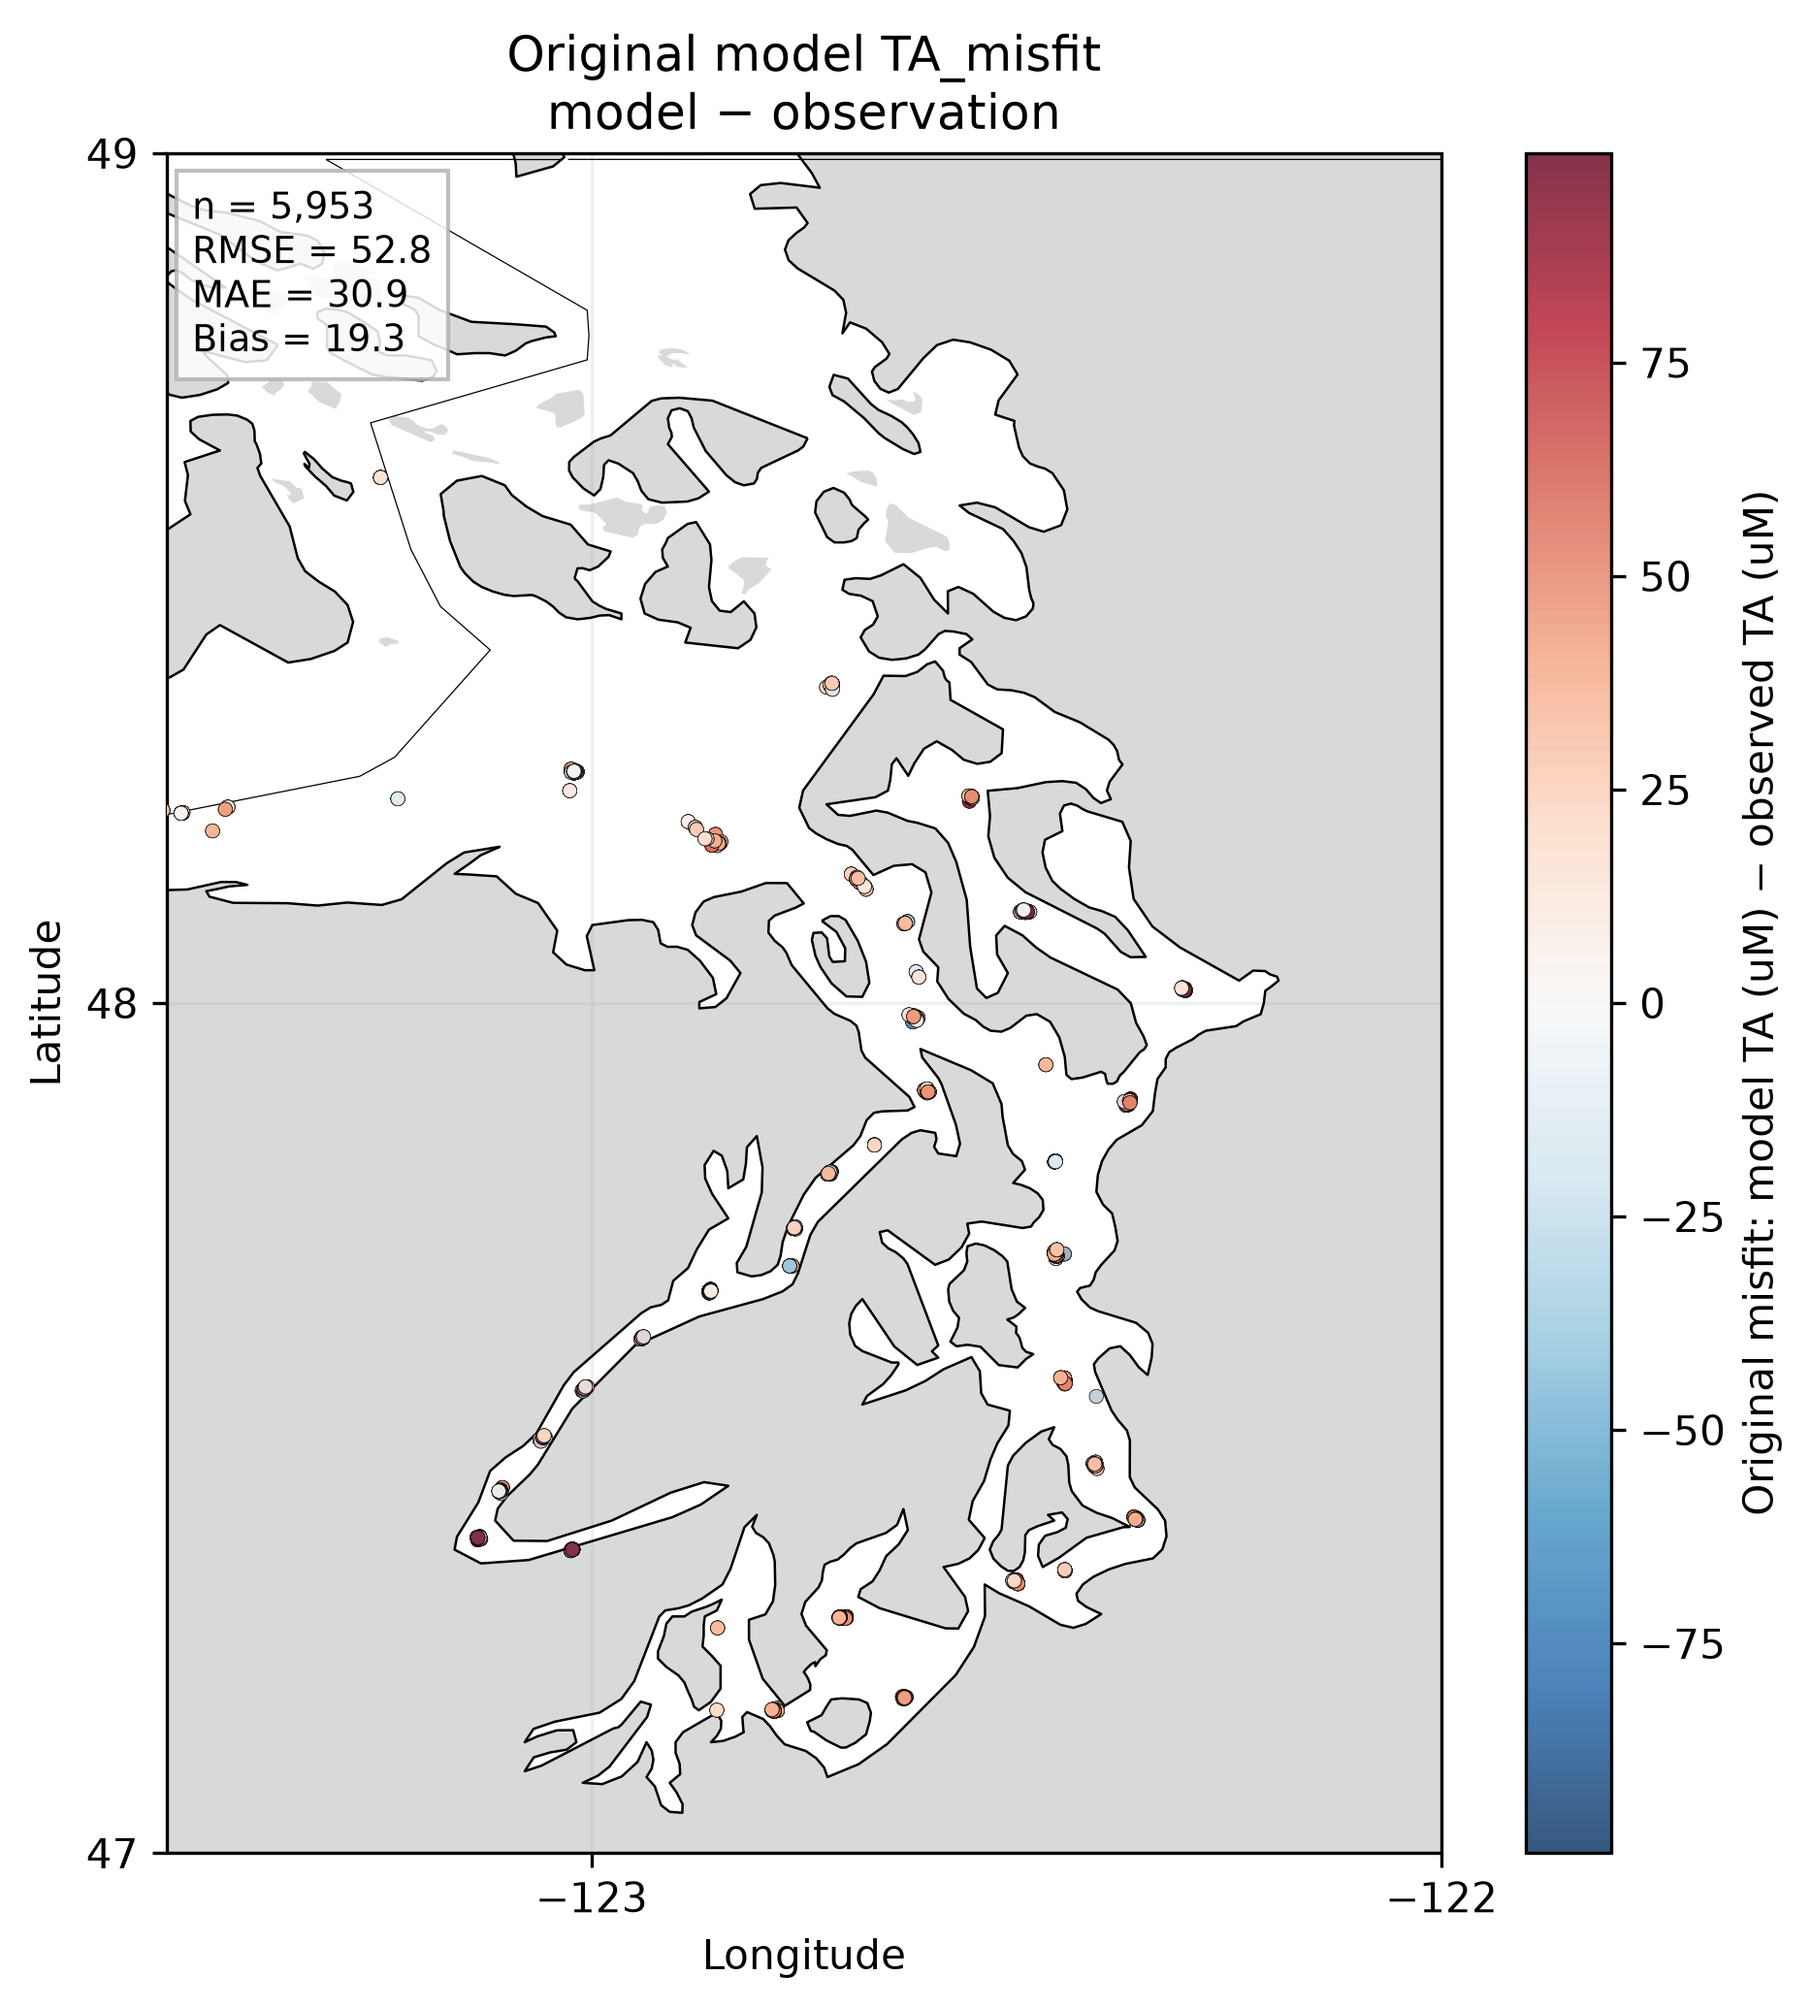
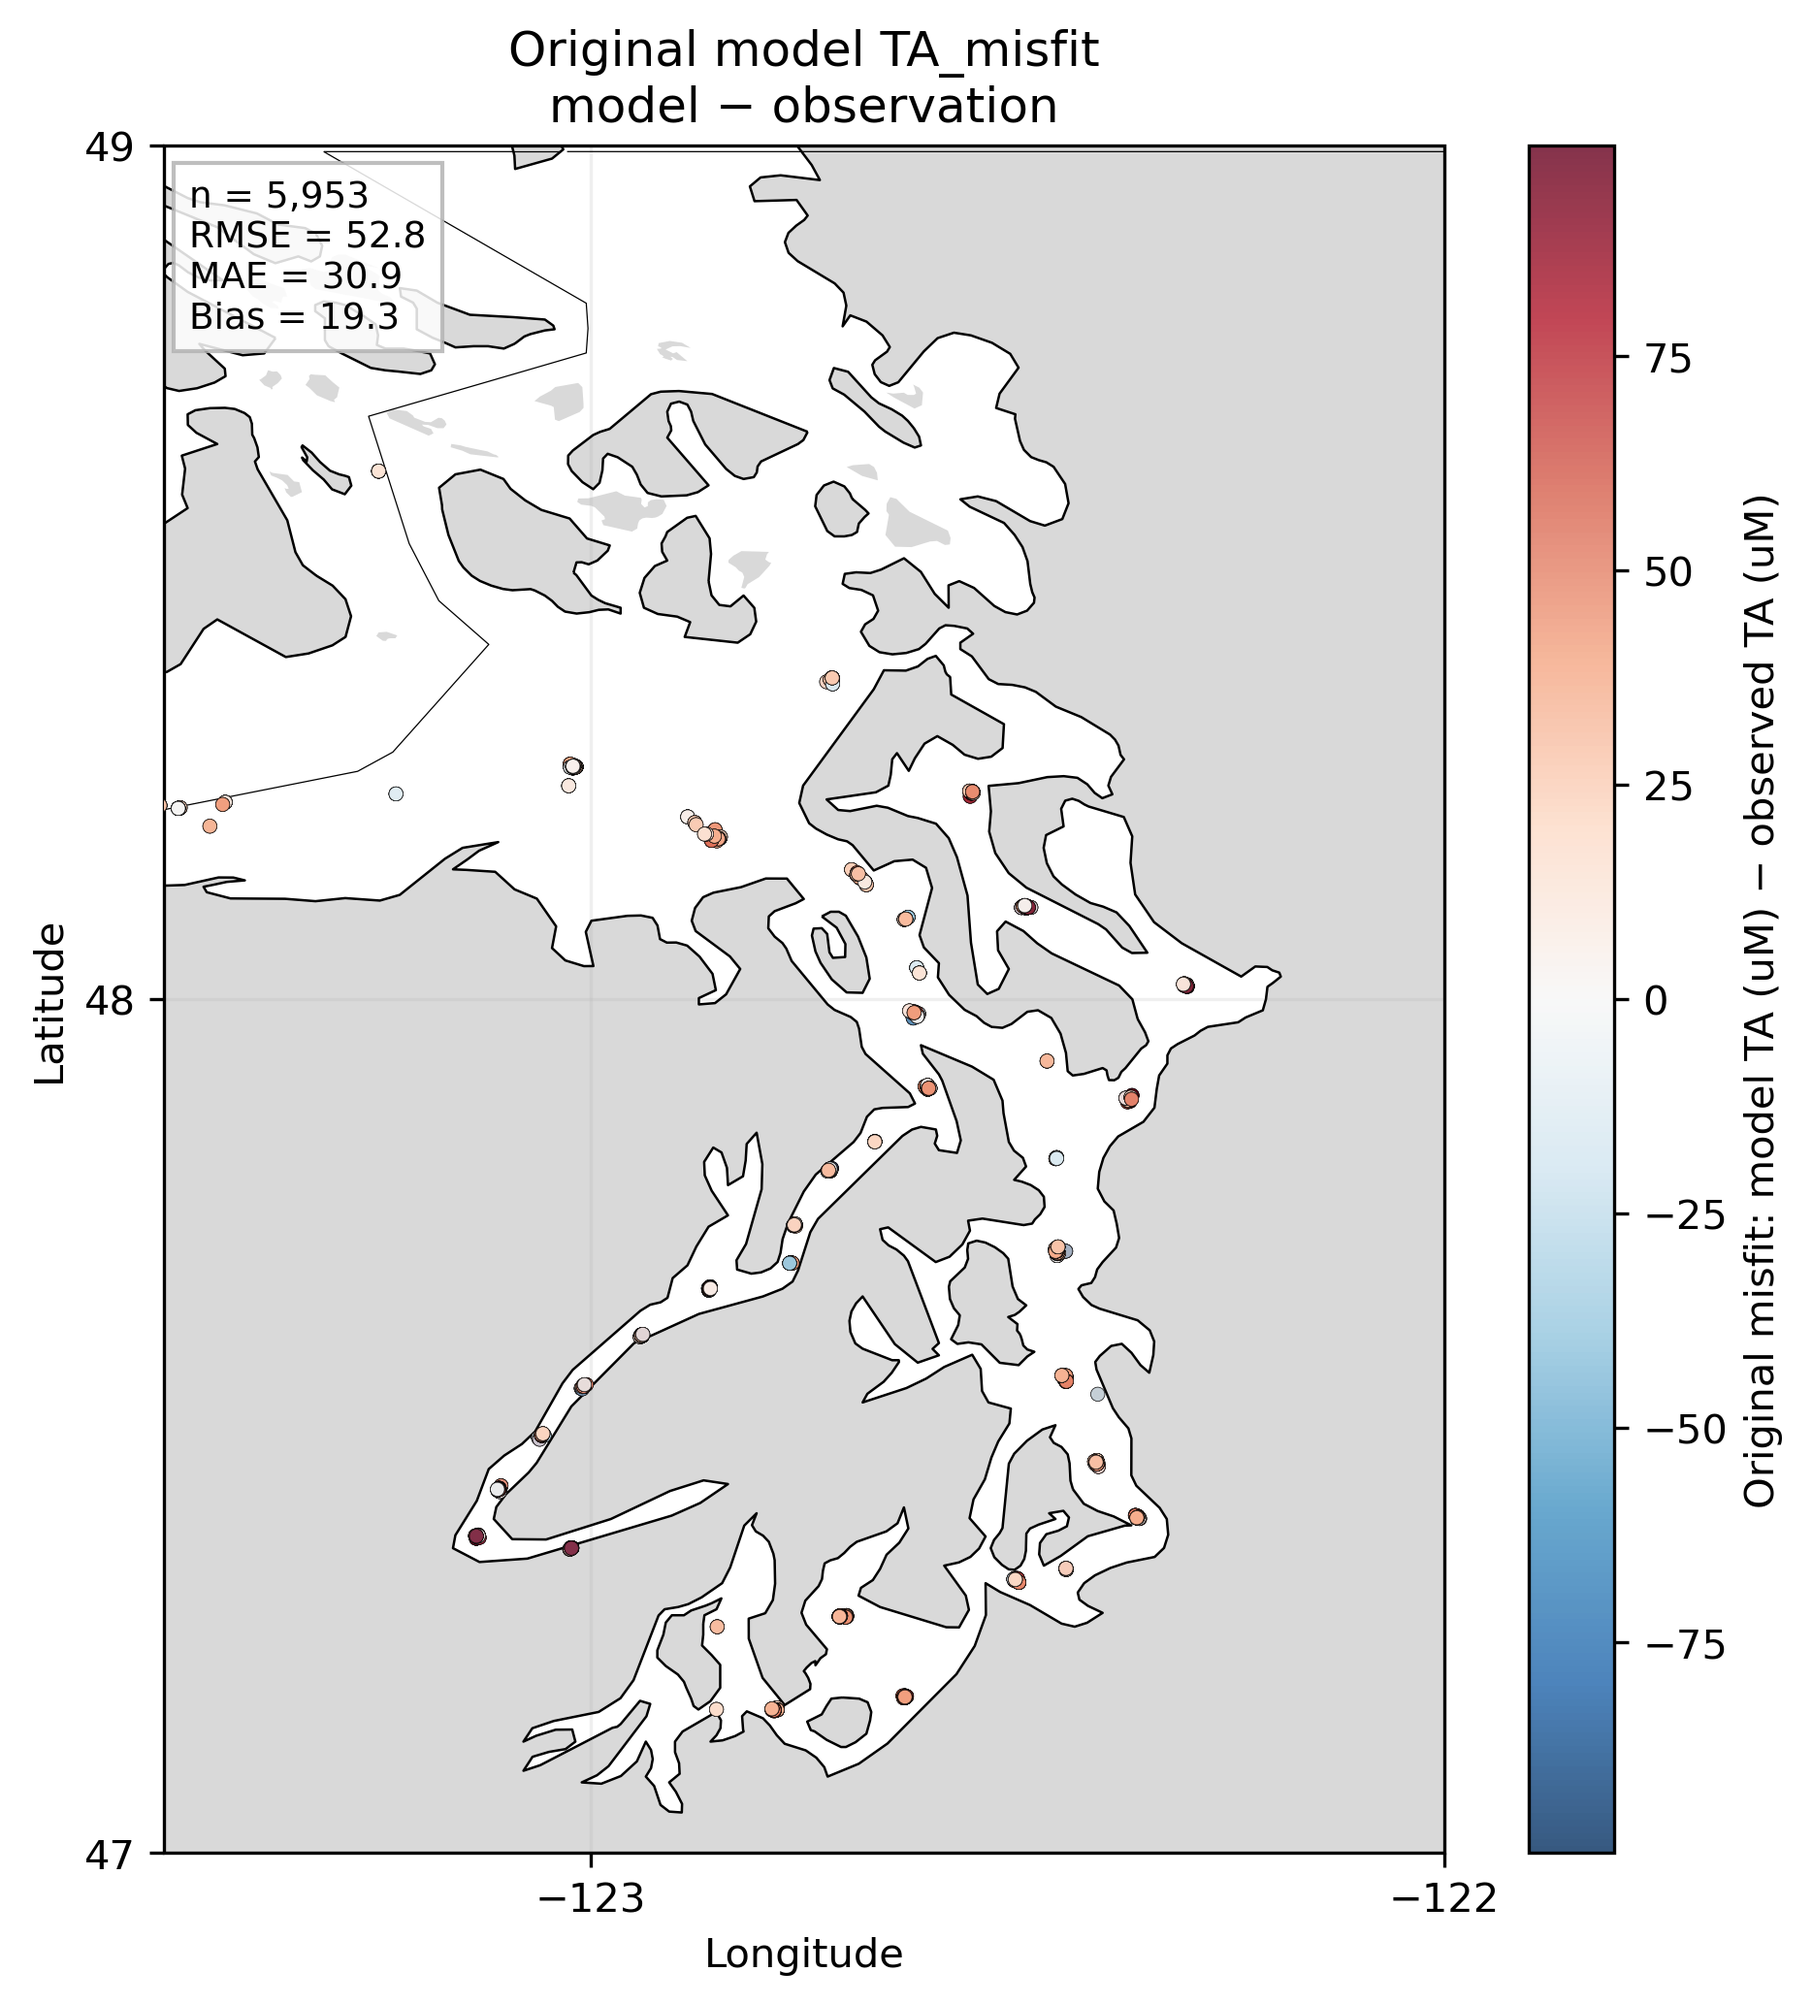
added some observation filtering for ORCA moorings

diff --git a/Observations/ORCA/ORCA_QC.py b/Observations/ORCA/ORCA_QC.py
@@ -37,12 +37,15 @@ QC flags are as follows:
     2 - NOT EVALUATED
     3 - SUSPECT
     4 - FAIL
-    5 - MISSING
+    9 - MISSING
 
 @author: lara
 """
 import xarray as xr
 from pathlib import Path
+import numpy as np
+import pandas as pd
+import gsw
 
 # First find the NetCDF3 file, which was previously downloaded from ERDDAP
 StationName = "DB" # choose any station abbreviation here
@@ -67,21 +70,126 @@ print(ds["sea_water_temperature"].dims)
 print(ds["sea_water_temperature"].shape)
 
 
-# %% First get rid of any poor quality flags, which are provided for salinity, 
-# chlorophyll, NO3, DO, and temperature. Bad data has already been removed 
-# during gridding, but we want to also remove suspect data that is flagged. We 
-# also want to remove missing values, flagged with -555
+# %% First get rid of any poor quality flags
+# Provided for salinity, chlorophyll, NO3, DO, and temperature. Bad data has 
+# already been removed during gridding, but we want to also remove suspect
+# data  or -127, -555 flags
 
+output_file = f"ORCA_{StationName}_qc_filtered.nc"
 
+# data_df: measurement data; qc_df: corresponding QC flags in matching row 
+# order
+variables = [
+    "sea_water_temperature",
+    "sea_water_practical_salinity",
+    "mass_concentration_of_chlorophyll_a_in_sea_water",
+    "mole_concentration_of_nitrate_in_sea_water",
+    "mass_concentration_of_oxygen_in_sea_water",
+]
 
+pair_dims = ("cast_start_time", "depth")
+
+# Create a row-major ordering number for every cast_start_time/depth cell 
+# combination
+pair_order = np.arange(
+    ds.sizes["cast_start_time"] * ds.sizes["depth"], dtype=np.int64
+).reshape(ds.sizes["cast_start_time"], ds.sizes["depth"])
+ds = ds.assign_coords(_pair_order=(pair_dims, pair_order))
+
+for variable in variables:
+    qc_variable = f"{variable}_qc_aggregate"
+    if variable not in ds or qc_variable not in ds:
+        raise KeyError(f"Missing measurement or QC variable: {variable} / {qc_variable}")
+
+    valid = (
+        (ds[qc_variable] == 1)
+        & ds[variable].notnull()
+        & ~ds[variable].isin([-555, -127])
+    )
+    ds[variable] = ds[variable].where(valid)
+
+# Save here if desired
+# ds.to_netcdf(output_file)
+# ds.close()
 # %% Unit conversions
-# Needed:
-    # temperature (deg C) --> CT (conservative temperature)
-    # salinity --> SA (absolute salinity)
-    # sampling time (UTC), seconds since 1970-01-01T00:00:00Z --> datetime64[ns] (?)
+# Needed | Have:
+# time (datetime UTC) | sample_time (datetime64[ns], UTC when decoded)
+# CT | sea_water_temperature (deg C; in situ temperature)
+# SA | sea_water_practical_salinity
+# Chl (mg m-3) | mass_concentration_of_chlorophyll_a_in_sea_water (mg m-3)
+# NO3 (uM) | mole_concentration_of_nitrate_in_sea_water (umol/kg)
+# DO (uM) | mass_concentration_of_oxygen_in_sea_water (mg/L)
+# z | depth (m)
+# lon | longitude (deg -180 to 180)
+# lat | latitude (deg -90 to 90)
+# year | NaN (extract from sample_time)
+#
+# Pre-defined
+# source: orca
+# otype: moor
+# name: StationName
+# cruise: None
+# index: created
     
+# Handling time first, which is already datetimeUTC but needs timezone-
+# awareness
 
+obs = (
+    ds[variables + ["sample_time", "depth", "_pair_order"]]
+    .to_dataframe()
+    .reset_index()
+    .rename(columns={
+        "mass_concentration_of_chlorophyll_a_in_sea_water": "Chl (mg m-3)",
+        "sample_time": "time",
+        "depth": "z",
+        "_pair_order": "index",
+    })
+)
 
+obs["time"] = pd.to_datetime(obs["time"], utc=True)
+obs["year"] = obs["time"].dt.year
 
+station_coords = {
+    "CI": (-122.73000, 47.28000),
+    "DB": (-122.80292, 47.80342),
+    "HS": (-123.11258333, 47.42181666),
+    "HV": (-122.62785, 47.90775),
+    "PW": (-122.3916667, 47.76116667),
+    "TW": (-123.00833333, 47.375),
+}
 
+obs["lon"], obs["lat"] = station_coords[StationName]
+obs["source"] = "orca"
+obs["name"] = StationName
+obs["cruise"] = None
+obs["otype"] = "moor"
 
+SP = obs["sea_water_practical_salinity"].to_numpy(dtype=float)
+z = obs["z"].to_numpy(dtype=float)       # positive downward, meters
+lat = obs["lat"].to_numpy(dtype=float)
+lon = obs["lon"].to_numpy(dtype=float)
+
+p = gsw.p_from_z(-z, lat)                # pressure, dbar
+obs["SA"] = gsw.SA_from_SP(SP, p, lon, lat)  # Absolute Salinity
+
+obs["CT"] = gsw.CT_from_t(
+    obs["SA"].to_numpy(dtype=float),
+    obs["sea_water_temperature"].to_numpy(dtype=float),  # in-situ °C
+    p,                                                   # pressure, dbar
+)
+
+rho = gsw.rho(
+    obs["SA"].to_numpy(dtype=float),
+    obs["CT"].to_numpy(dtype=float),
+    p,  # pressure in dbar
+)  # kg/m³
+
+obs["NO3 (uM)"] = (
+    obs["mole_concentration_of_nitrate_in_sea_water"].to_numpy(dtype=float)
+    * rho / 1000
+)
+
+# O₂ molar mass = 31.998 mg/mmol
+obs["DO (uM)"] = (
+    obs["mass_concentration_of_oxygen_in_sea_water"] * 1000 / 31.998
+)
